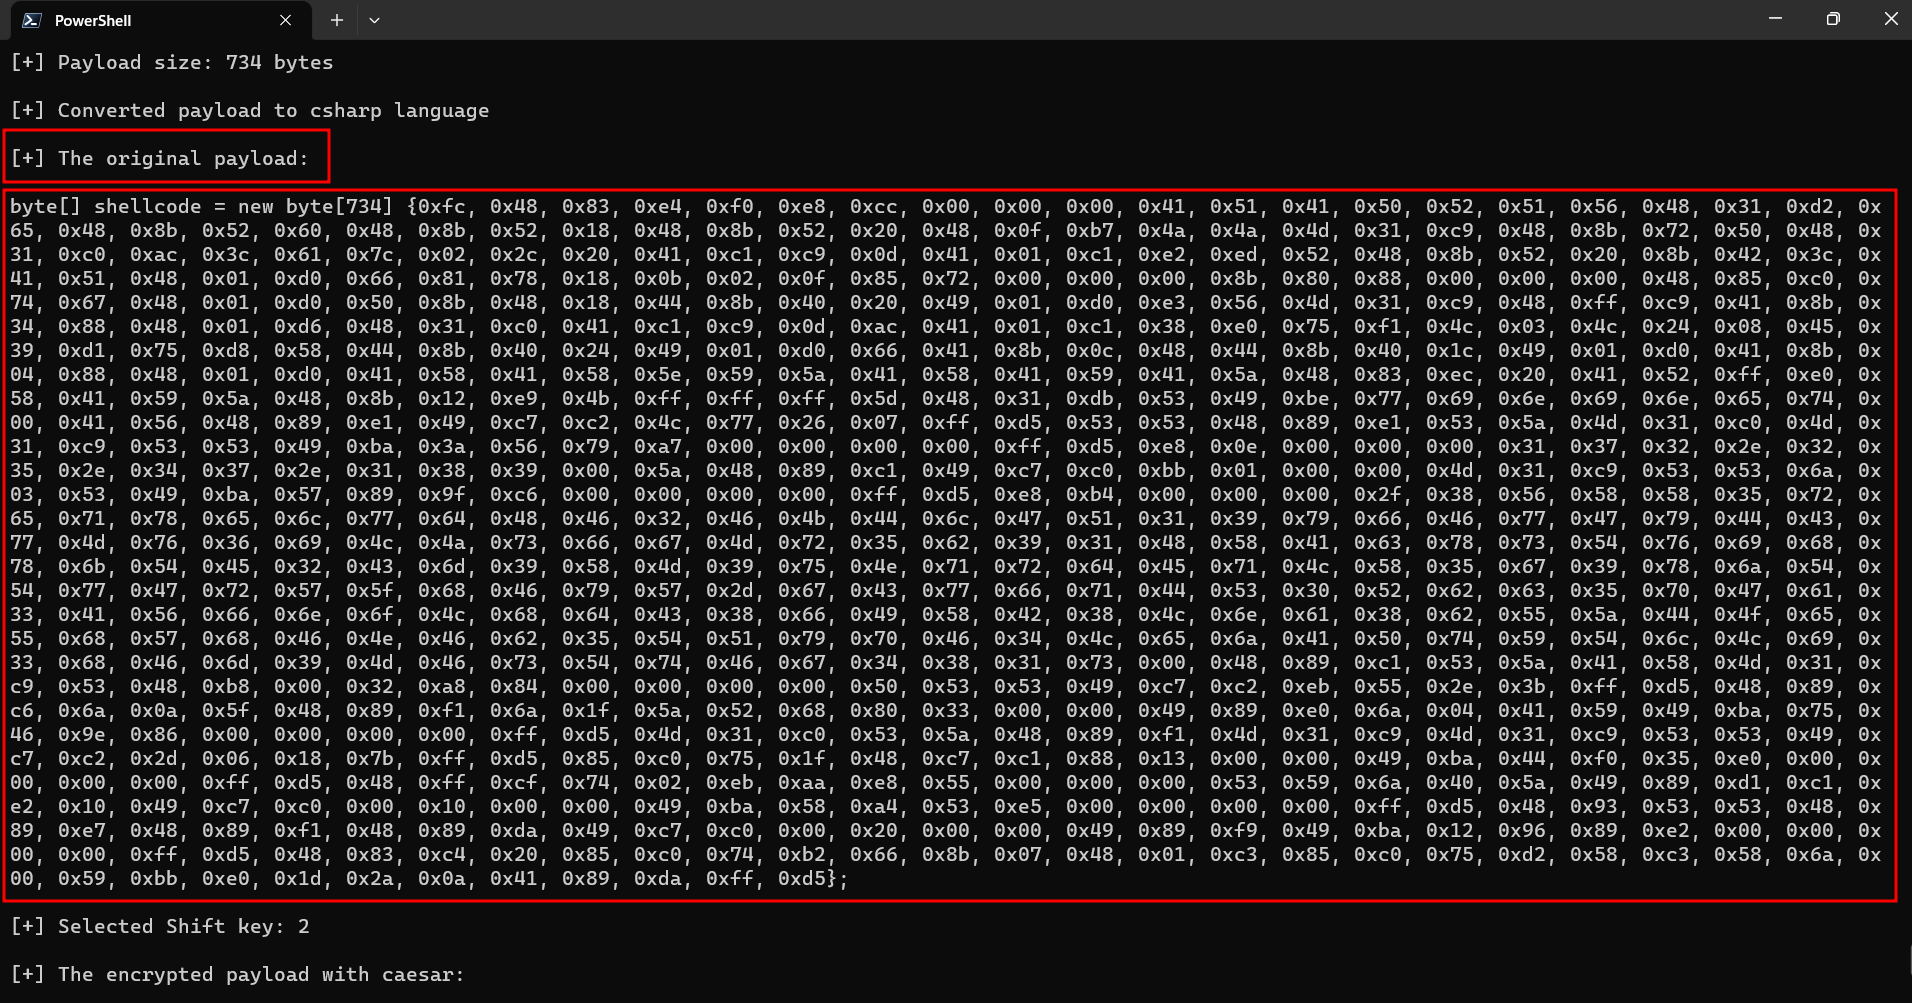
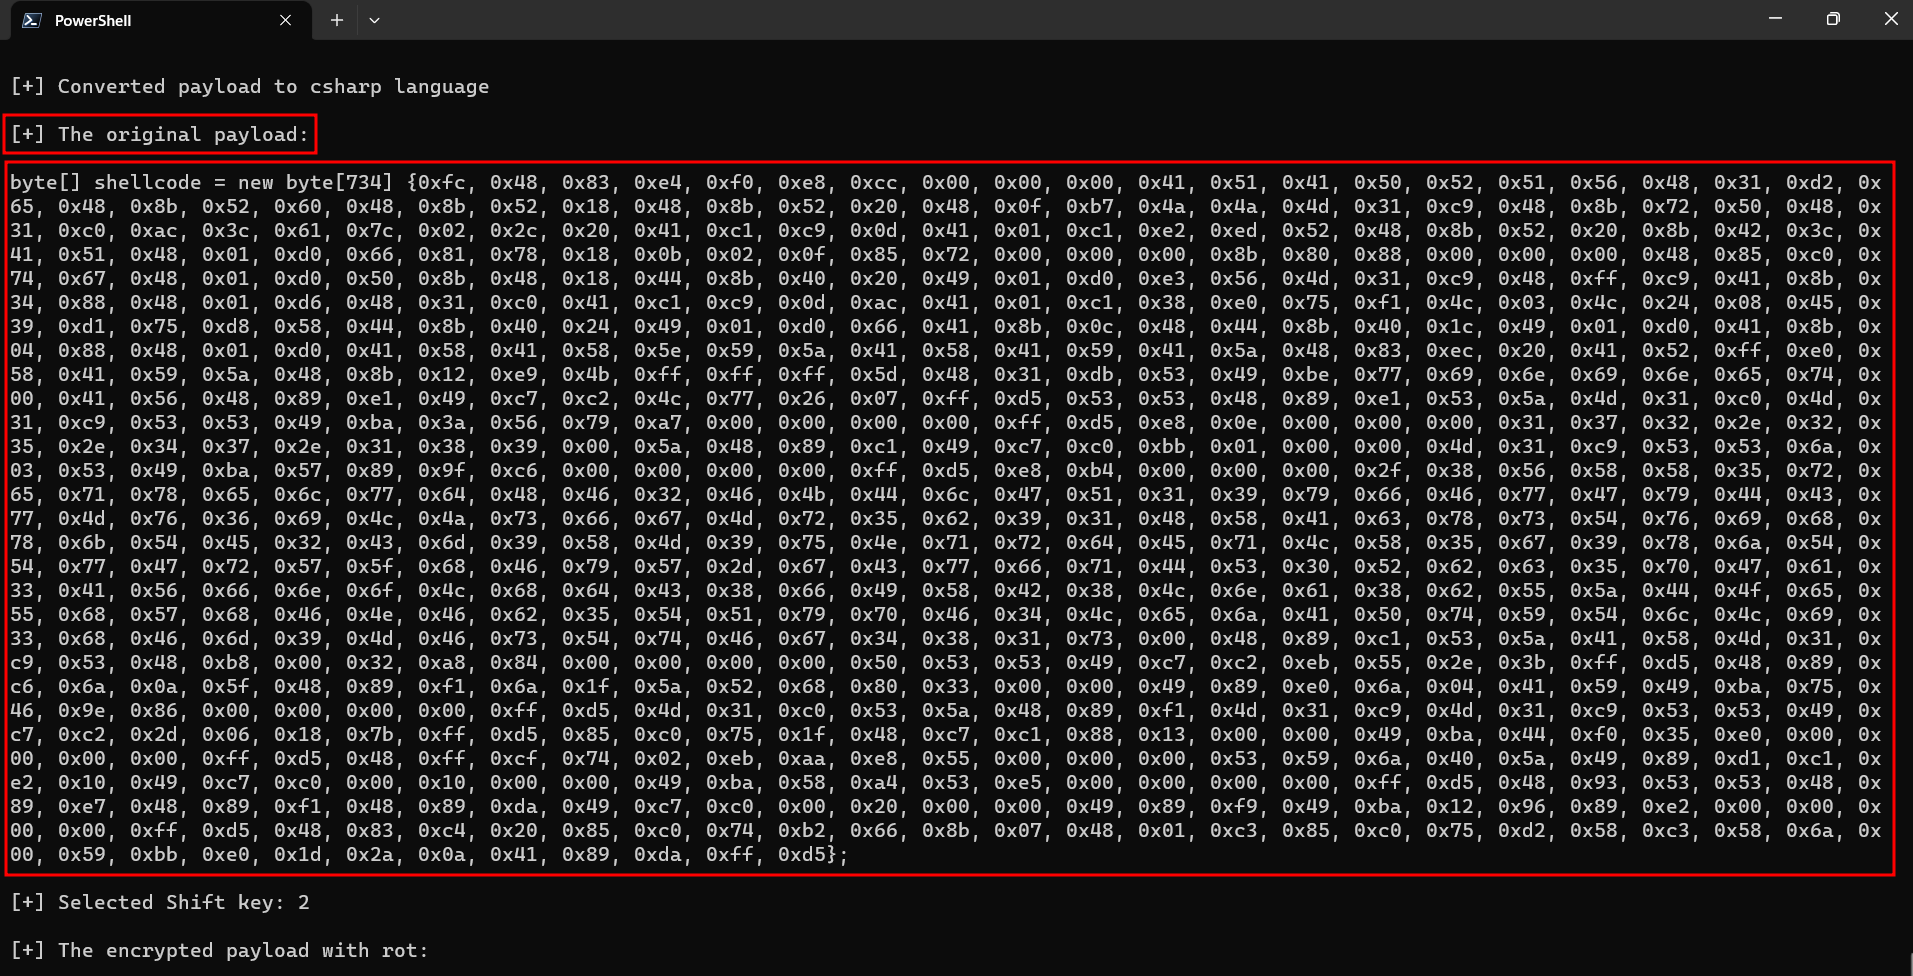
Add ROT instead of Caesar

Changed region(s): [[0.0, 0.0615, 1.0, 0.9836], [0.0309, 0.0, 0.0617, 0.0307]]

diff --git a/Supernova.go b/Supernova.go
@@ -53,7 +53,7 @@ Please visit %s for more...
 // Options function
 func Options() *FlagOptions {
 	inputFile := flag.String("i", "", "Path to the raw 64-bit shellcode")
-	encryption := flag.String("enc", "", "Shellcode encryption (i.e., Caesar, XOR, RC4, AES)")
+	encryption := flag.String("enc", "", "Shellcode encryption (i.e., ROT, XOR, RC4, AES)")
 	language := flag.String("lang", "", "Programming language to translate the shellcode (i.e., Nim, Rust, C, CSharp)")
 	outFile := flag.String("o", "", "Name of output file")
 	variable := flag.String("v", "shellcode", "Name of shellcode variable")
@@ -122,7 +122,7 @@ func main() {
 	// Encryption option is enable
 	if options.encryption != "" {
 		// Call function named ValidateArgument
-		Arguments.ValidateArgument("enc", options.encryption, []string{"XOR", "RC4", "AES", "Caesar"})
+		Arguments.ValidateArgument("enc", options.encryption, []string{"XOR", "RC4", "AES", "ROT"})
 
 		// Call function named DetectEncryption
 		encryptedShellcode, foundKey, passphrase := Encryptors.DetectEncryption(options.encryption, rawShellcode, options.key)

diff --git a/Arguments/Arguments.go b/Arguments/Arguments.go
@@ -51,7 +51,7 @@ func ArgumentEmpty(statement string, option int) {
 		case 2:
 			logger.Fatal("Please provide a valid value for the programming language (e.g., C++, CSharp, Rust, Nim).")
 		case 3:
-			logger.Fatal("Please provide a valid value for the encryption (e.g., Caesar, XOR, RC4, AES).")
+			logger.Fatal("Please provide a valid value for the encryption (e.g., ROT, XOR, RC4, AES).")
 		default:
 			logger.Fatal("Invalid option specified for ArgumentEmpty function.")
 		}

diff --git a/Encryptors/Encryptors.go b/Encryptors/Encryptors.go
@@ -140,7 +140,7 @@ func DetectEncryption(cipher string, shellcode string, key int) (string, []byte,
 		shellcodeFormatted := Converters.FormatShellcode(encryptedShellcode)
 
 		return shellcodeFormatted, xorKey, ""
-	case "caesar":
+	case "rot":
 		// Print selected shift key
 		fmt.Printf("[+] Selected Shift key: %d\n\n", shift)
 
